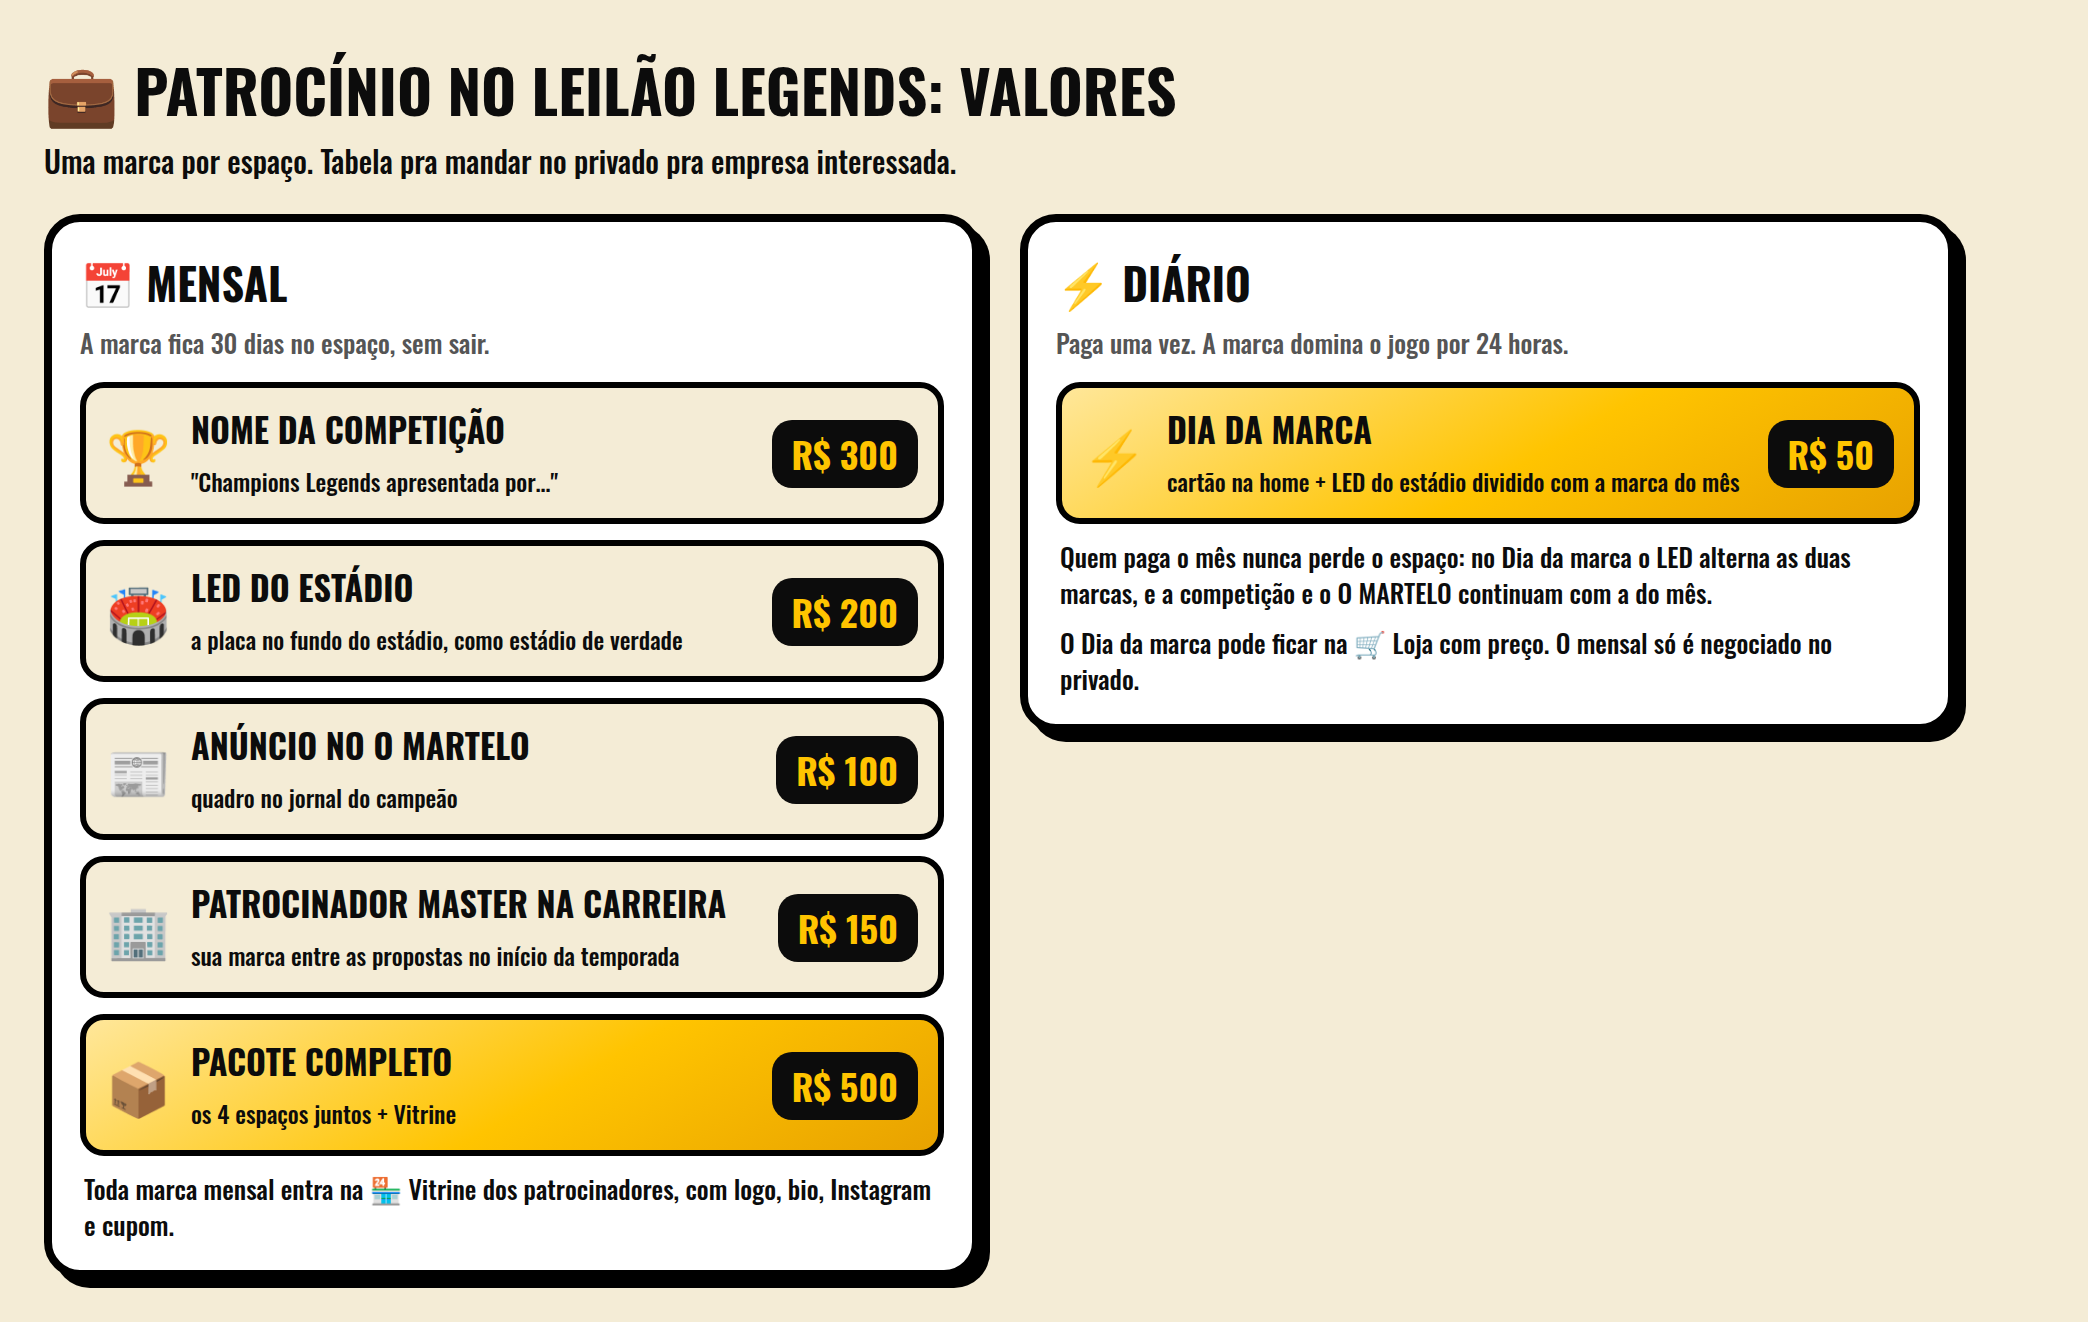
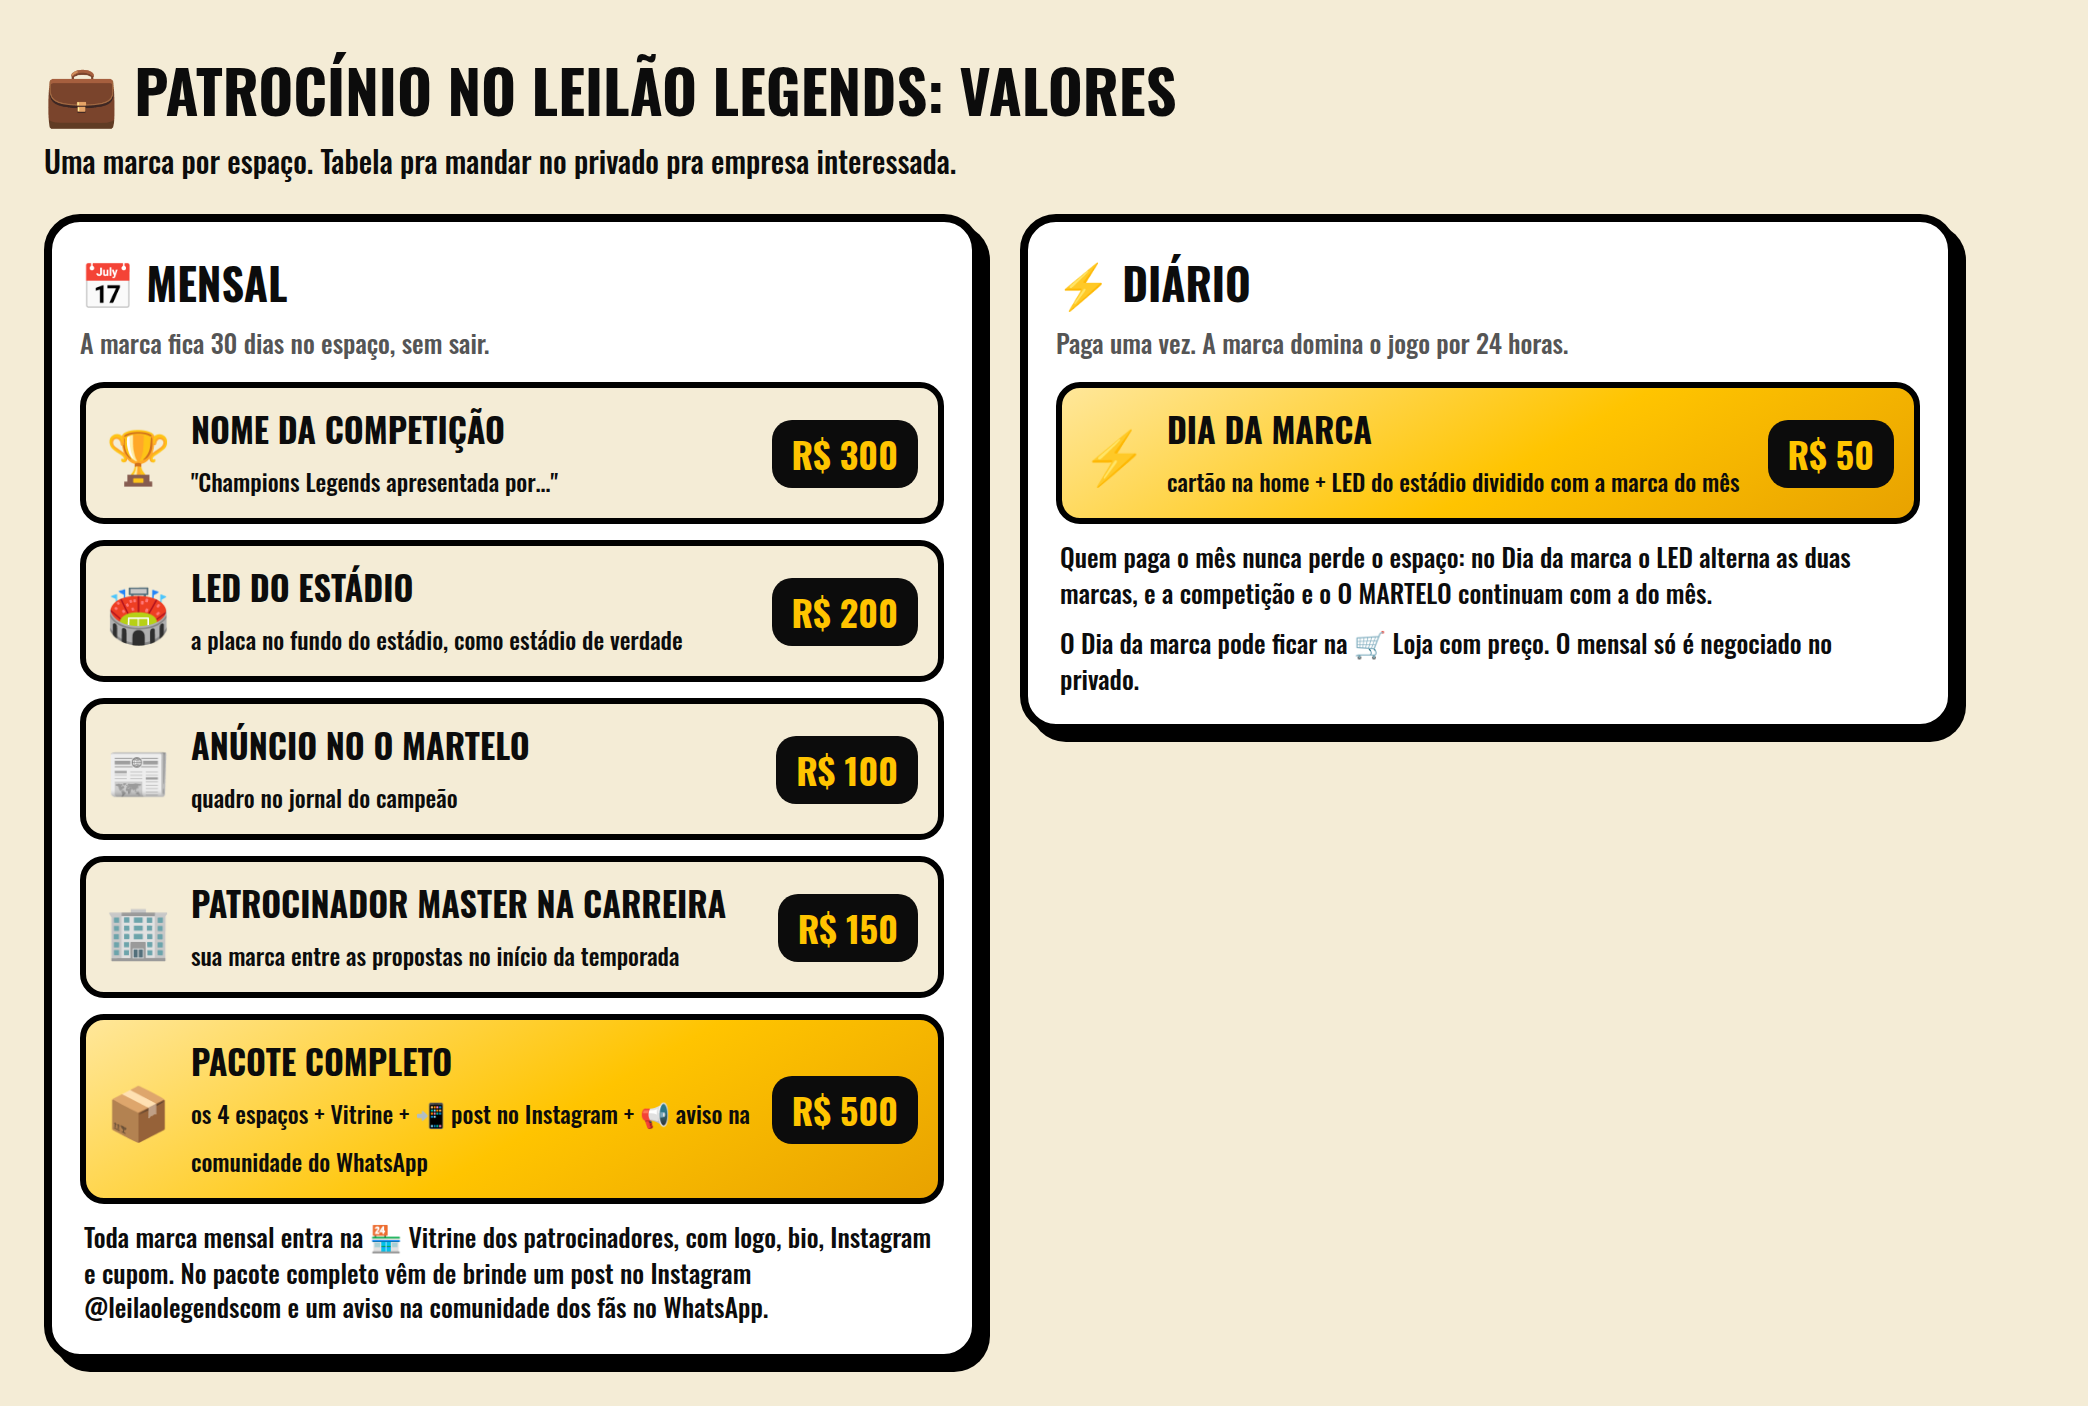
Pacote completo de patrocínio inclui post no Instagram e aviso na comunidade do WhatsApp
Claude-Session: https://claude.ai/code/session_018Ap1zPCMVL9XeZJN3u93ZA

Changed region(s): [[0.0, 0.031, 0.965, 0.9924]]

diff --git a/src/escalacao/loja-clube.tsx b/src/escalacao/loja-clube.tsx
@@ -239,6 +239,7 @@ function Loja({ onClose, naCarreira = false }: { onClose: () => void; naCarreira
               <li>{tr('📰 Anúncio no jornal O MARTELO do campeão', '📰 Ad in the champion’s O MARTELO newspaper')}</li>
               <li>{tr('🏢 Patrocinador Master na carreira: sua marca entre as propostas de patrocínio no início da temporada', '🏢 Master sponsor in career mode: your brand among the sponsorship offers at the start of each season')}</li>
               <li>{tr('🏪 Cartão na Vitrine dos patrocinadores, com logo, bio, Instagram e cupom', '🏪 Card in the Sponsors showcase, with logo, bio, Instagram and coupon')}</li>
+              <li>{tr('📲 No pacote completo: post no Instagram @leilaolegendscom e aviso na comunidade dos fãs no WhatsApp', '📲 In the full package: a post on Instagram @leilaolegendscom and an announcement in the fans’ WhatsApp community')}</li>
             </ul>
             <p style={{ fontSize: 11.5, fontWeight: 800, margin: '8px 0 0' }}>{tr('Quer saber mais? Fala com a gente:', 'Want to know more? Talk to us:')}</p>
             <div style={{ display: 'flex', gap: 6, marginTop: 6 }}>

diff --git a/docs/pendencias.md b/docs/pendencias.md
@@ -8,7 +8,7 @@
   *"faça o mensal pelo Vendria e repasse o custo… 1,99 fixo"*) → valor + R$ 1,99. Sem código.
 - 🏢 16/10: entrou **Patrocinador Master na carreira** (a marca vira uma das propostas do início da temporada, como Vadico/ERO/Max
   Jóias/Rei das Tintas/Uomo em `SPONSOR_BRANDS`) por R$ 150, e **o pacote completo (os 4) fica em R$ 500** (Diego: *"tudo de 500 pra quem
-  fechar tudo"*). Avulsos: competição 300 · LED 200 · O MARTELO 100 (Diego 16/10) · Master 150.
+  fechar tudo"*), com **post no Instagram + aviso na comunidade do WhatsApp INCLUSOS no pacote** (Diego 16/10). Avulsos: competição 300 · LED 200 · O MARTELO 100 (Diego 16/10) · Master 150.
 - 🏦 Loja segue com SÓ 3 pacotes de moedas (10 · 50 · 100); 500/1000 aceitos no Pix mas escondidos (Diego 16/10: *"deixe como tava"*).
 
 ## 🚗 VADICO VEÍCULOS: "Champions Legends apresentada por" (16/10) — ✅ NO AR só nas contas do Diego
